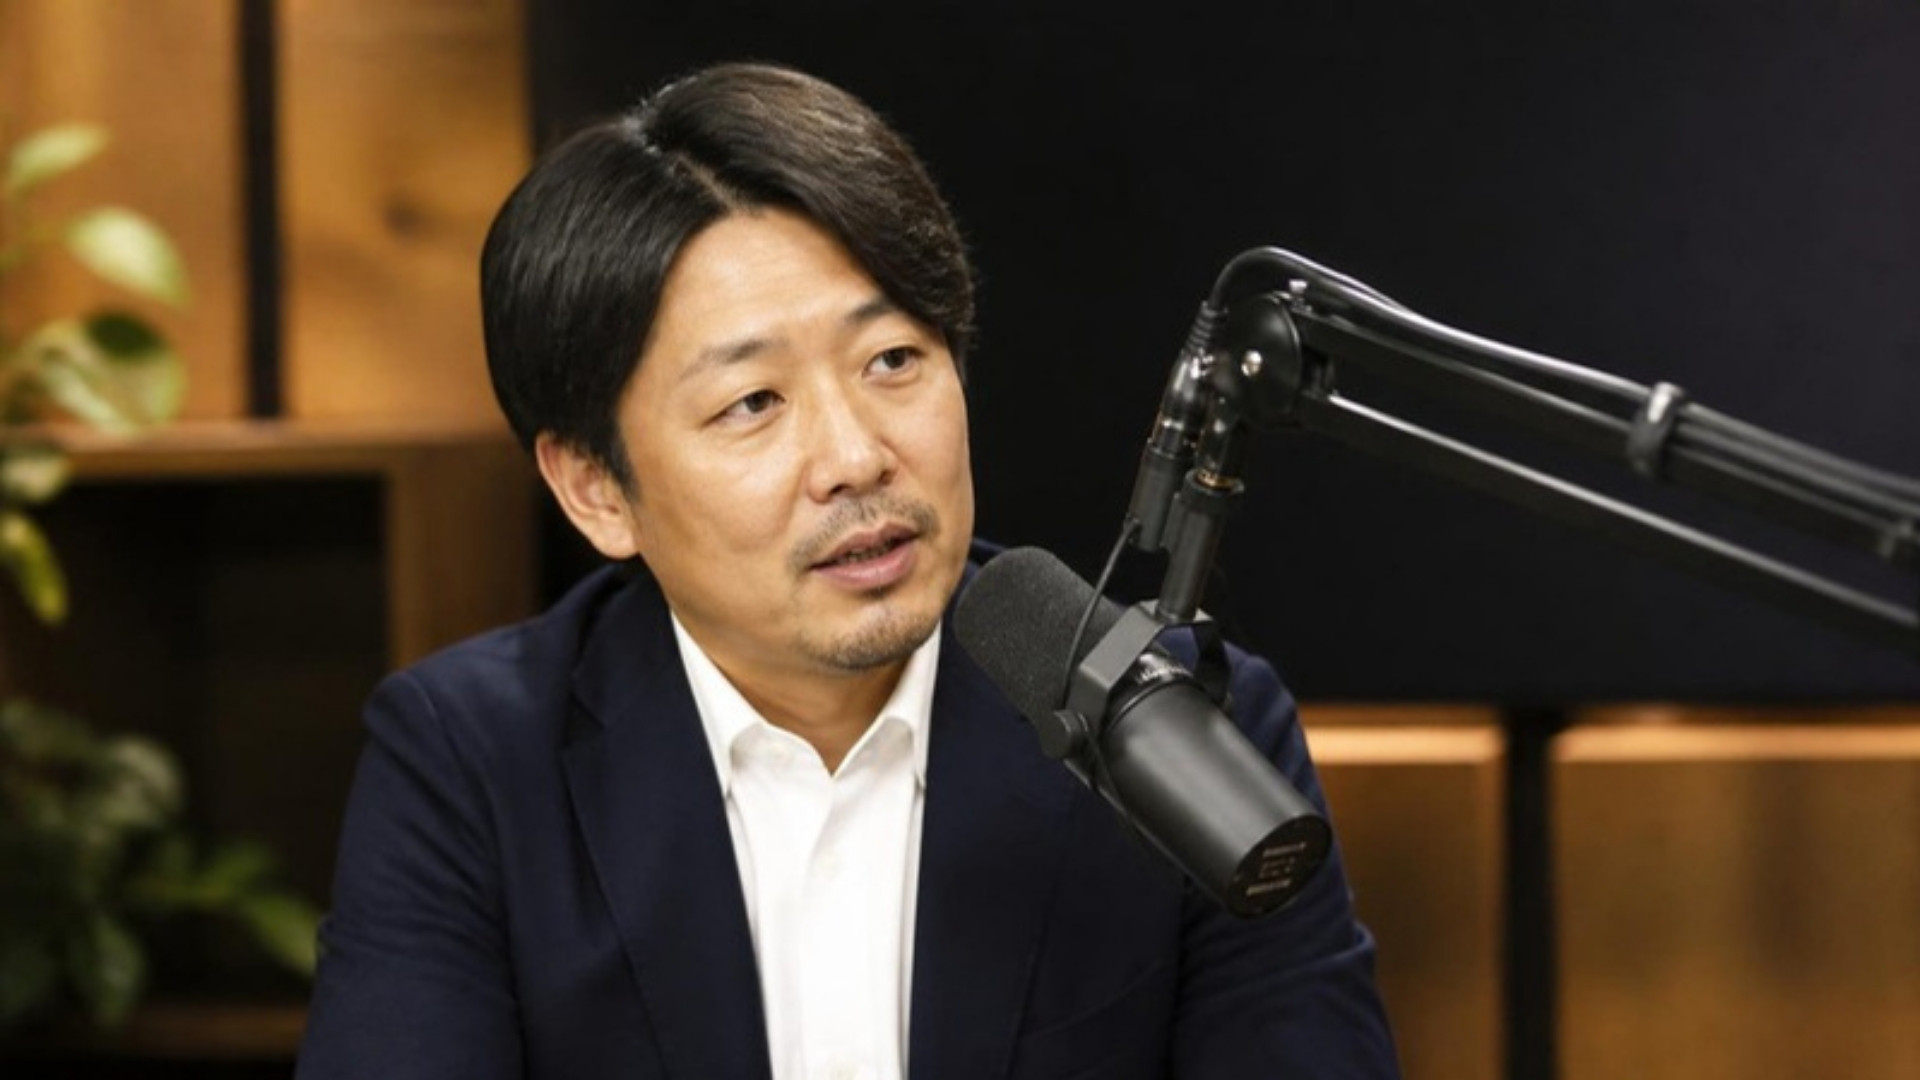
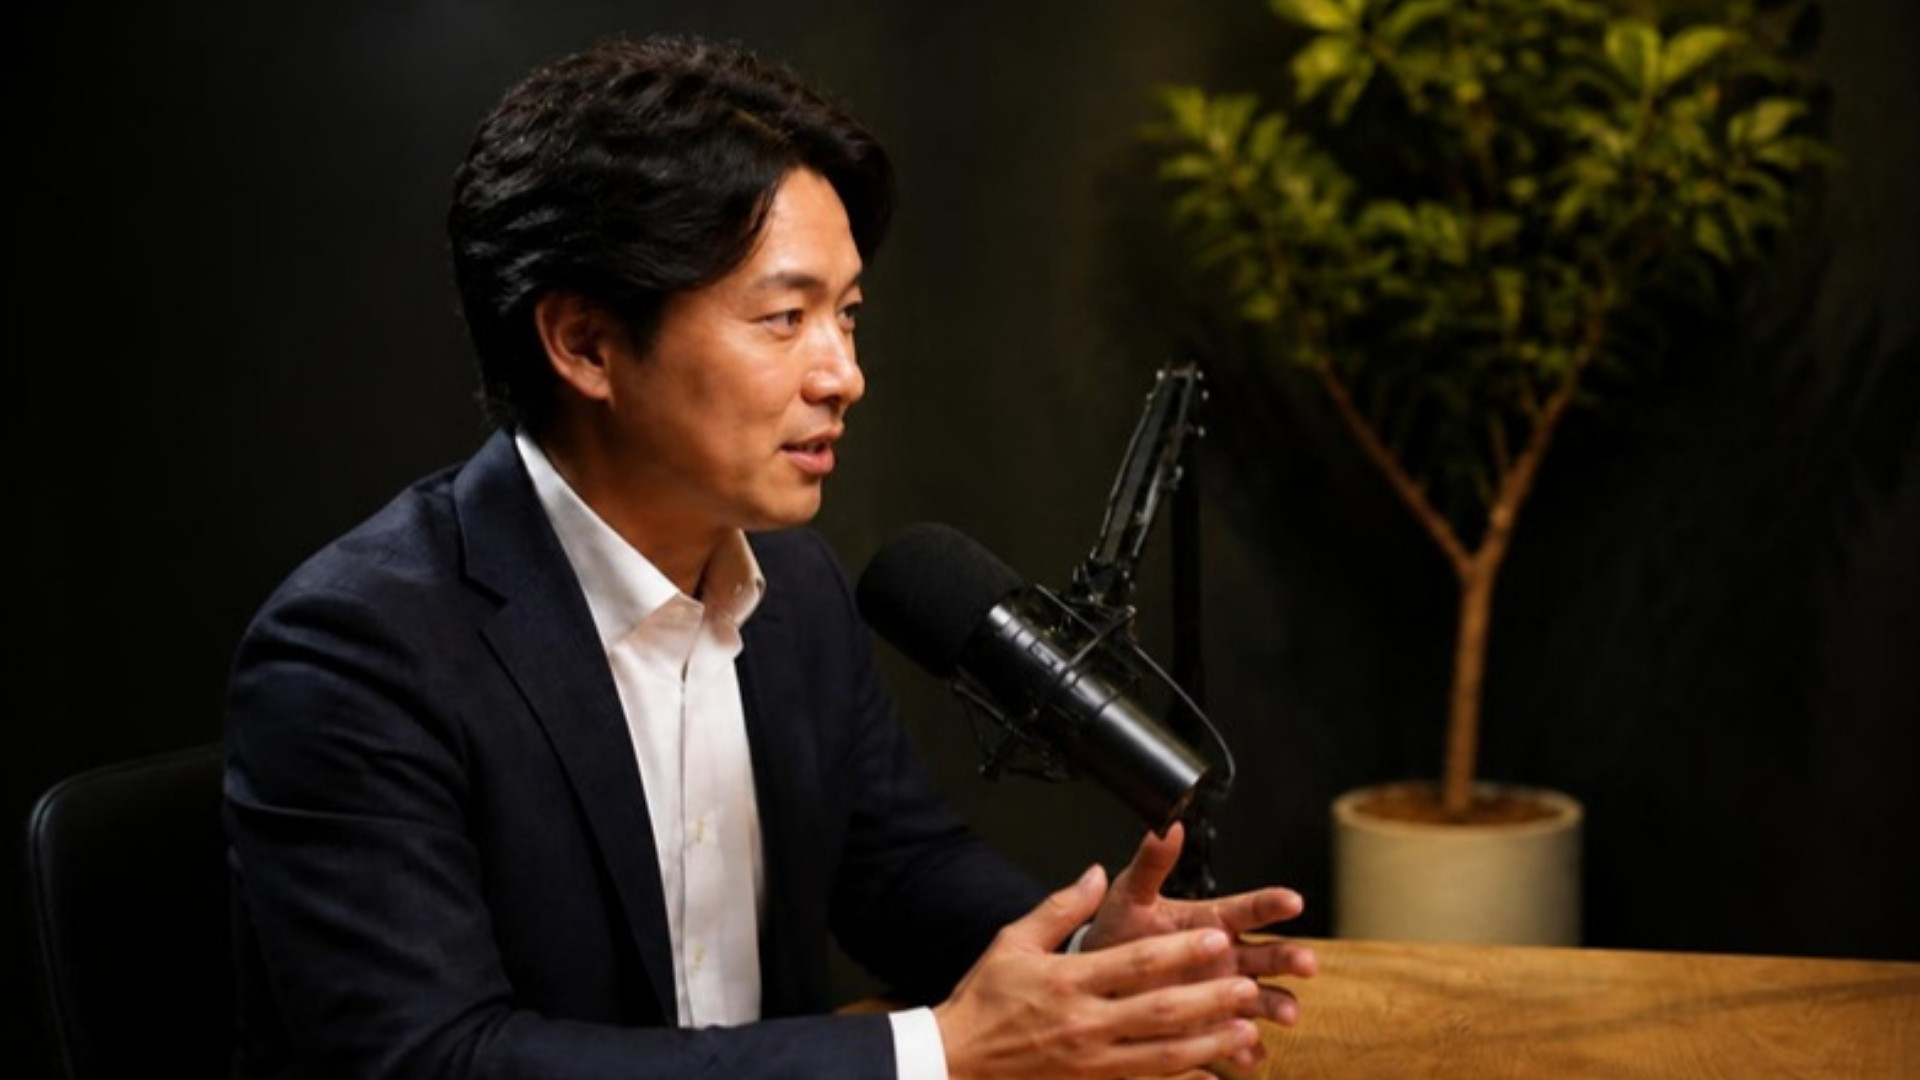
素材を同一人物に統一（2分割・ワイプ）、AiKAGIスタジオを追加、プロフィールの自動配置をスタジオ×ショットで定義

diff --git a/index.html b/index.html
@@ -207,7 +207,7 @@
     <div class="tbl"><table id="allrefs"></table></div>
   </section>
 
-  <footer>Podcast Lookbook v1（2026-10）。参考動画の著作権は各権利者に帰属します。プレビューの人物はAI生成の見本で、実在の人物ではありません。</footer>
+  <footer>Podcast Lookbook v1（2026-10）。参考動画の著作権は各権利者に帰属します。プレビューの人物とスタジオの見本はAI生成で、実在の人物ではありません。</footer>
 </div>
 <div class="toast" id="toast"></div>
 
@@ -221,20 +221,27 @@
     solo:  ["今日は、私が独立した理由をお話しします"]
   };
   var SHOT_EMPH = { wide:"人に会い続けた1年", close:"売上ゼロの半年", solo:"独立した理由" };
-  var SHOT_SPK  = { wide:[0,1], close:[1], solo:[0] };   // 行ごとの話者（0=ホスト, 1=ゲスト）
+  var SHOT_SPK  = { wide:[0,1], close:[1], solo:[0] };   // 行ごとの話者（0=ホスト, 1=ゲスト）。引き=ホストが先に話し、ゲストが返す
   var FONTS = { mincho:"明朝", gothic:"ゴシック", maru:"丸ゴシック" };
   var FONT_CSS = { mincho:"var(--f-mincho)", gothic:"var(--f-gothic)", maru:"var(--f-maru)" };
 
   // ---------- スタジオ（背景の見本。pos は object-position、prof はプロフィールカードを置く側） ----------
+  // 引きの2人と寄りは同じ人物（AI生成）。split は引きと同じ左右の並び、pip はゲストの寄りにホストの小窓
   var STUDIOS = {
-    a: { label:"スタジオA", shots:{
+    a: { label:"スタジオA（黒背景）", shots:{
           wide:{src:"img/shot_wide.jpg", pos:"50% 50%", prof:"center"},
-          close:{src:"img/shot_close.jpg", pos:"38% 50%", prof:"right"},
-          solo:{src:"img/shot_solo.jpg", pos:"50% 45%", prof:"right"} },
-         split:{ left:{shot:"solo", pos:"50% 40%"}, right:{shot:"close", pos:"42% 50%"} },
-         pip:{ main:{shot:"close", pos:"38% 50%"}, small:{shot:"solo", pos:"50% 40%"} } }
+          close:{src:"img/shot_close.jpg", pos:"40% 50%", prof:"right"},
+          solo:{src:"img/shot_solo.jpg", pos:"62% 50%", prof:"left"} },
+         split:{ left:{shot:"close", pos:"42% 50%"}, right:{shot:"solo", pos:"60% 50%"} },
+         pip:{ main:{shot:"close", pos:"40% 50%"}, small:{shot:"solo", pos:"62% 50%"} } },
+    aikagi: { label:"AiKAGIスタジオ（白背景）", shots:{
+          wide:{src:"img/aikagi_wide.jpg", pos:"50% 50%", prof:"center"},
+          close:{src:"img/aikagi_close.jpg", pos:"55% 50%", prof:"left"},
+          solo:{src:"img/aikagi_solo.jpg", pos:"58% 50%", prof:"left"} },
+         split:{ left:{shot:"solo", pos:"58% 50%"}, right:{shot:"close", pos:"55% 50%"} },
+         pip:{ main:{shot:"close", pos:"55% 50%"}, small:{shot:"solo", pos:"58% 50%"} } }
   };
-  var STUDIO_ORDER = ["a"];
+  var STUDIO_ORDER = ["a", "aikagi"];
 
   // ---------- 既定（どのパターンにも無い項目はこれ） ----------
   var BASE = {
@@ -453,8 +460,13 @@
     if(r){
       $("refMeta").textContent = r.program+"（"+r.channel+"）・"+fmt(r.start)+"〜";
       $("refSeen").textContent = "画面で見えるもの: "+r.seen;
-      var im=document.createElement("img"); im.alt=r.program; im.src="https://i.ytimg.com/vi/"+encodeURIComponent(r.id)+"/maxresdefault.jpg";
-      im.onerror=function(){ im.onerror=null; im.src="https://i.ytimg.com/vi/"+encodeURIComponent(r.id)+"/hqdefault.jpg"; };
+      var im=document.createElement("img"); im.alt=r.program;
+      if(r.frame){ // 該当カットの静止画（出典は下のメタ欄に併記）
+        im.src=r.frame; im.onerror=function(){ im.onerror=null; im.src="https://i.ytimg.com/vi/"+encodeURIComponent(r.id)+"/maxresdefault.jpg"; };
+      }else{
+        im.src="https://i.ytimg.com/vi/"+encodeURIComponent(r.id)+"/maxresdefault.jpg";
+        im.onerror=function(){ im.onerror=null; im.src="https://i.ytimg.com/vi/"+encodeURIComponent(r.id)+"/hqdefault.jpg"; };
+      }
       th.appendChild(im);
       var pl=document.createElement("span"); pl.className="play"; th.appendChild(pl);
       var tm=document.createElement("span"); tm.className="tm"; tm.textContent=fmt(r.start)+"から再生"; th.appendChild(tm);

diff --git a/README.md b/README.md
@@ -34,9 +34,9 @@
     "title": { "on": true, "style": "band|white|dark", "pos": "tl|tr", "text": "..." },
     "logo":  { "on": true, "pos": "tr|tl|br|bl", "style": "plate|transparent", "size": 1.0 },
     "name":  { "on": false, "pos": "bl|br", "style": "white|dark" },
-    "prof":  { "on": false, "style": "white|dark|timeline" },
+    "prof":  { "on": false, "style": "white|dark|timeline", "pos": "auto|left|center|right", "y": "middle|top" },
     "digest": false,
-    "cam": "auto|wide|split",
+    "cam": "auto|wide|split|pip",
     "bgm": "none|light|ask"
   }
 }
